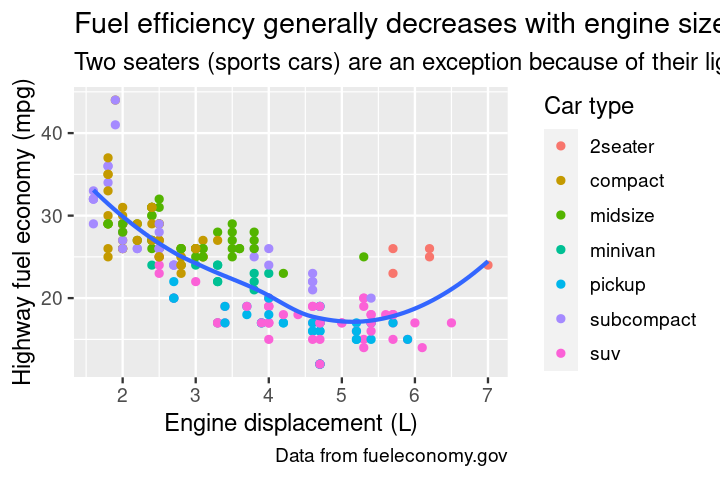
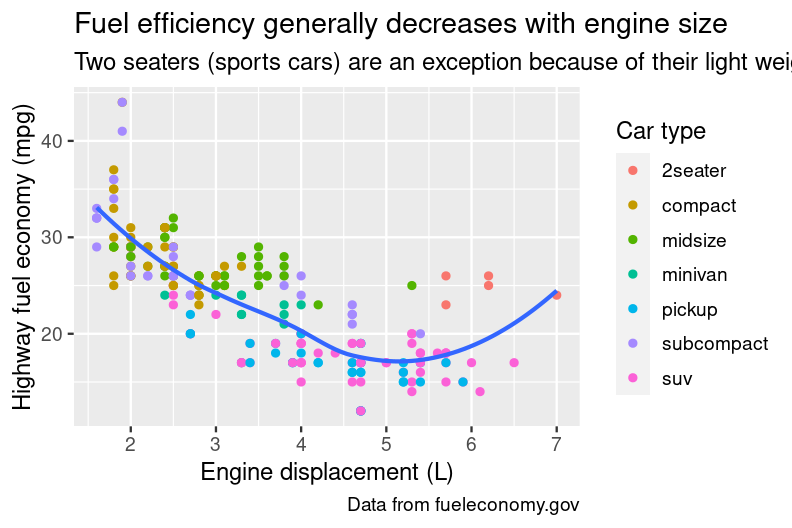
update

diff --git a/teaching/sta35b/lectures/lec11-visualization-3/lec11-visualization-3.html b/teaching/sta35b/lectures/lec11-visualization-3/lec11-visualization-3.html
@@ -1,7 +1,7 @@
 <!DOCTYPE html>
 <html lang="" xml:lang="">
   <head>
-    <title>Visualizations I</title>
+    <title>Visualizations III</title>
     <meta charset="utf-8" />
     <meta name="author" content="Spencer Frei" />
     <script src="lec11-visualization-3_files/header-attrs-2.25/header-attrs.js"></script>
@@ -13,7 +13,7 @@
 class: center, middle, inverse, title-slide
 
 .title[
-# Visualizations I
+# Visualizations III
 ]
 .subtitle[
 ## <br><br> STA35B: Statistical Data Science 2
@@ -234,7 +234,7 @@ ggplot(mpg, aes(x = displ, y = hwy)) +
 ]
 
 .pull-right[
-&lt;img src="lec11-visualization-3_files/figure-html/unnamed-chunk-15-1.png" width="360" /&gt;
+&lt;img src="lec11-visualization-3_files/figure-html/unnamed-chunk-15-1.png" width="396" /&gt;
 
 ]
     </textarea>

diff --git a/teaching/sta35b/lectures/lec10-visualization-2/lec10-visualization-2.html b/teaching/sta35b/lectures/lec10-visualization-2/lec10-visualization-2.html
@@ -1,7 +1,7 @@
 <!DOCTYPE html>
 <html lang="" xml:lang="">
   <head>
-    <title>Visualizations I</title>
+    <title>Visualizations II</title>
     <meta charset="utf-8" />
     <meta name="author" content="Spencer Frei" />
     <script src="lec10-visualization-2_files/header-attrs-2.25/header-attrs.js"></script>
@@ -13,7 +13,7 @@
 class: center, middle, inverse, title-slide
 
 .title[
-# Visualizations I
+# Visualizations II
 ]
 .subtitle[
 ## <br><br> STA35B: Statistical Data Science 2
